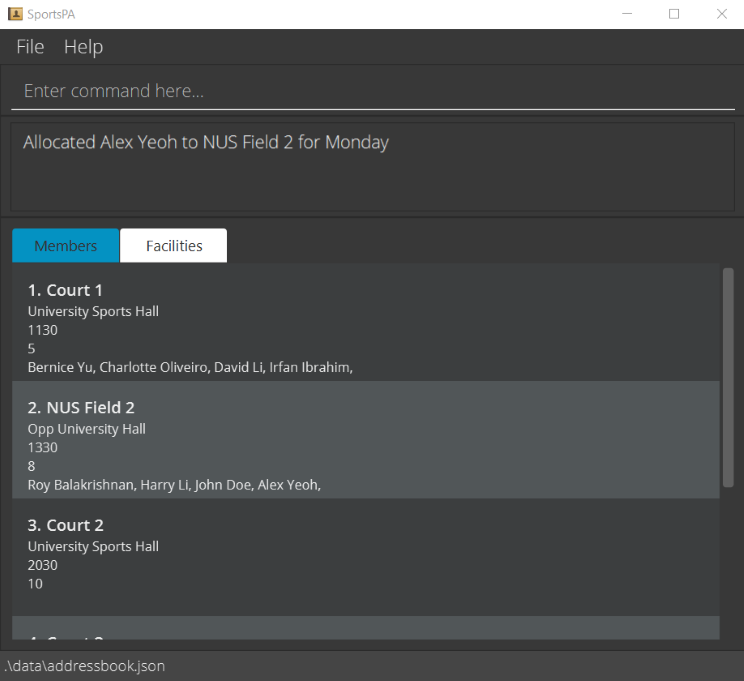
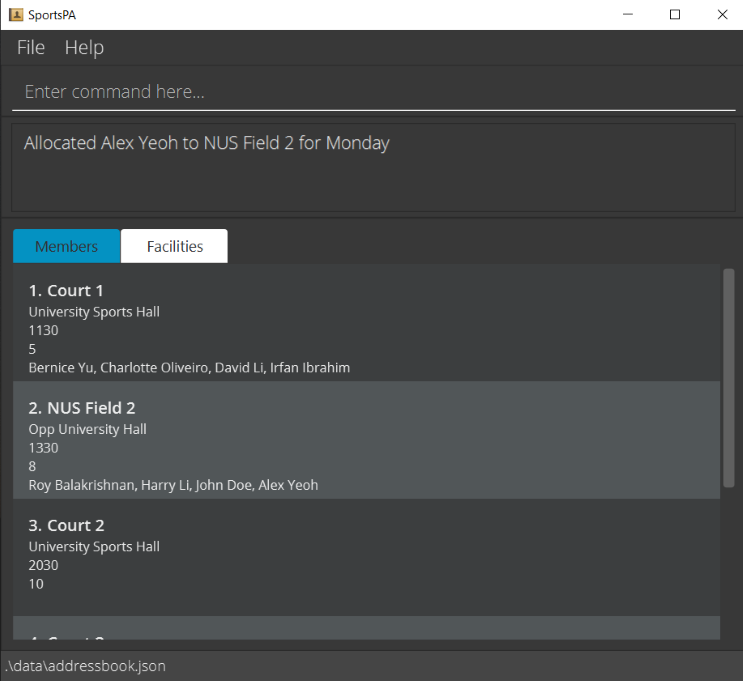
Remove comma at the end of personAllocatedList

diff --git a/src/main/java/seedu/address/model/facility/Facility.java b/src/main/java/seedu/address/model/facility/Facility.java
@@ -4,6 +4,7 @@ import static seedu.address.commons.util.CollectionUtil.requireAllNonNull;
 
 import java.util.ArrayList;
 import java.util.List;
+import java.util.stream.Collectors;
 
 import seedu.address.model.person.Person;
 
@@ -66,11 +67,7 @@ public class Facility {
         if (personAllocatedList == null) {
             return "No person allocated";
         }
-
-        StringBuilder builder = new StringBuilder();
-        personAllocatedList.forEach(person -> builder
-                .append(person.getName()).append(", "));
-        return builder.toString();
+        return personAllocatedList.stream().map(p -> p.getName().fullName).collect(Collectors.joining(", "));
     }
 
     public boolean isWithinMaxCapacity(int numberOfPersons) {

diff --git a/src/test/java/seedu/address/model/facility/FacilityTest.java b/src/test/java/seedu/address/model/facility/FacilityTest.java
@@ -32,7 +32,7 @@ public class FacilityTest {
         Facility facility = new FacilityBuilder().build();
         facility.addPersonToFacility(person);
         facility.addPersonToFacility(secondPerson);
-        assertEquals("Amy Bee, Matt, ", facility.getPersonsAsString());
+        assertEquals("Amy Bee, Matt", facility.getPersonsAsString());
     }
 
     @Test
